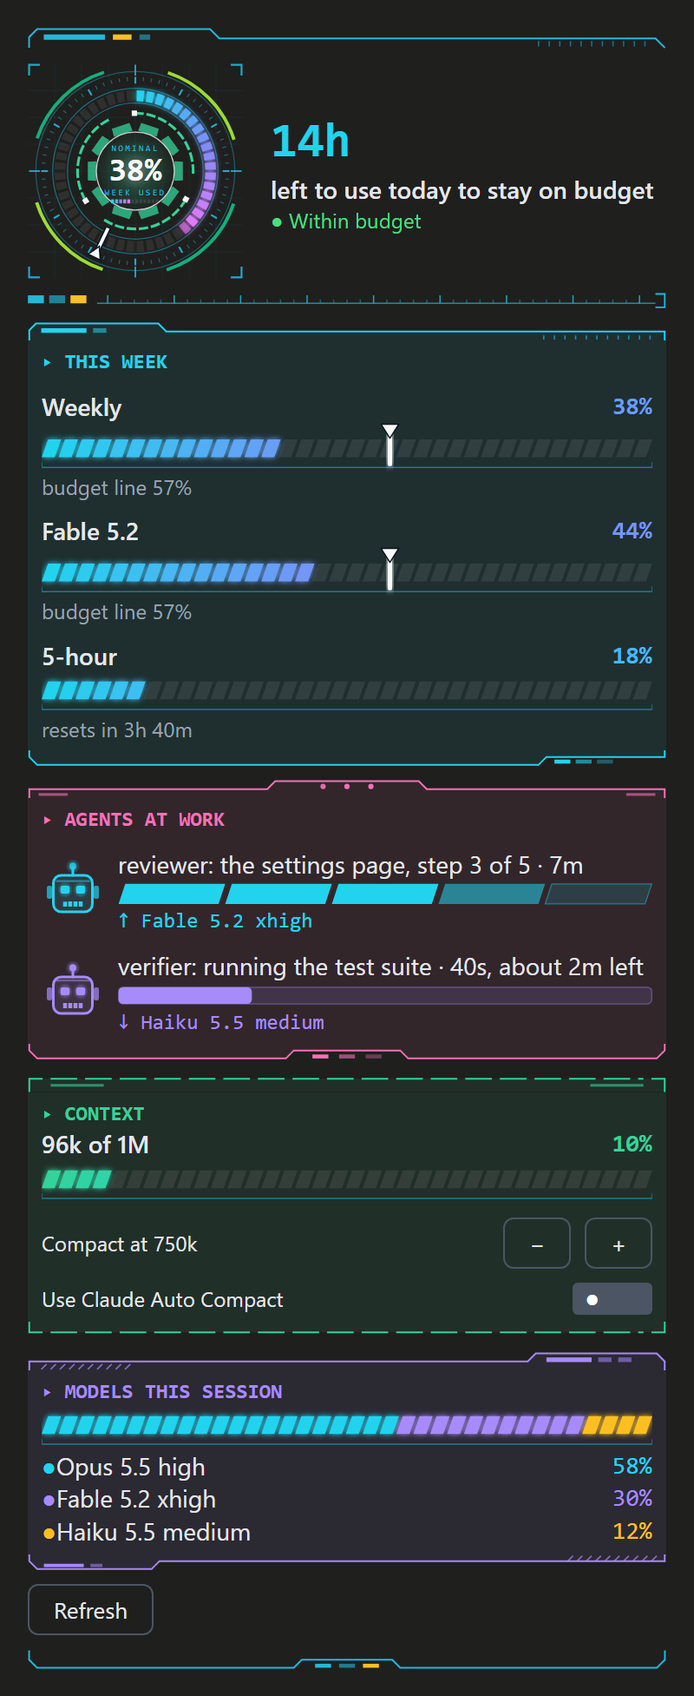
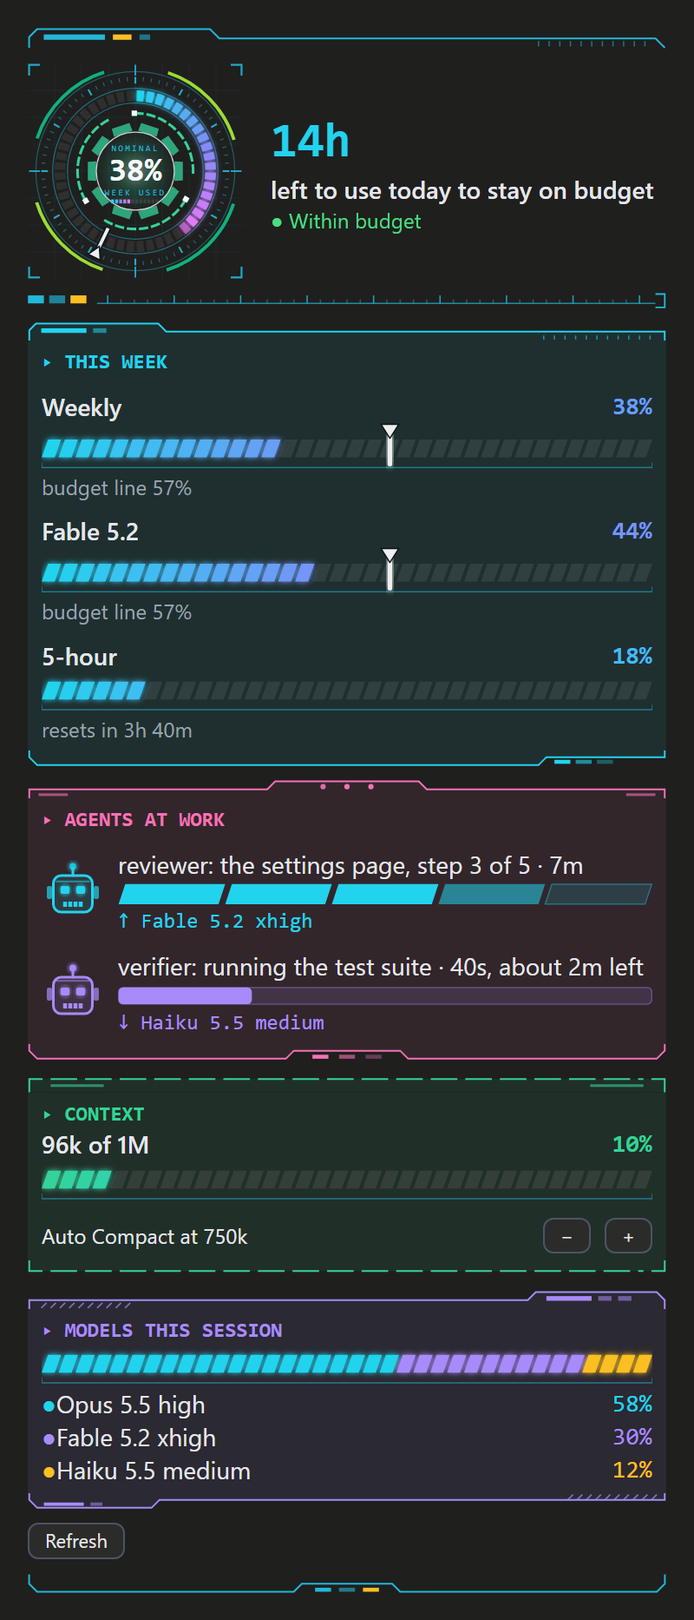
Context value follows the session; smaller buttons; Close to budget; pacing 0.9.50
- The pane's context value moves with every request, not only at a turn's end. A compaction, by Claude Code itself, a typed /compact or the pane's Compact, first shows the size it compacts at, with Compacting… on the button, then the size after; a precompute changes nothing.
- The row says Auto Compact at 400k.
- Compact, − and + and Refresh are smaller (a footnote Text in a Button with no label), with a line of room above Compact.
- Up to 5 points over the line the week says Close to budget · +N (and "close to budget" in the toasts), not over the budget line.
- `scripts/pane-images.mjs --html <file> [--before <pane.mjs>]` draws the samples side by side to one page, to see a layout change.

diff --git a/pacing/hooks/readings.test.ts b/pacing/hooks/readings.test.ts
@@ -5,7 +5,7 @@
 // node --test.
 import { expect, mock, test } from 'claude-code/testing'
 import { OUT_FILL, stepsSvg, stepsText, STEPS_MAX, STEPS_H, DIALS, FRAMES, frameSvg, barSvg, overShade, overText, OVER_CALM, OVER_RED, ORANGE, YELLOW, HUD, breakable, BREAK_AT, PREM_CALM, PREM_YELLOW, PREM_RED, premShade, premText, LEVEL_COLORS, barText, robotSvg, reactorSvg, rulerSvg, drawingId, builtCount, buildsDone, MEMO_MAX, phased, phaseOf, DIAL_SIZE, paneView, ACCENTS, CONTEXT_WARM, CONTEXT_KEEP, contextShade, contextWarmAt, contextTone, SUCCESS_HEX, DIM_HEX, BUDGET_LINE, OVER_KEEP, kept, sweepAt } from './pane.mjs'
-import { pauseNote, pauseDue, unattended, statusText, fullText, HEAD_MAX, levelPhrase, offerText, nowText, COMPACT_INSTRUCTIONS, LINE_MAX, LINE_MAX_NARROW, lineMaxOf, READ_BACK_LAG, commandFailed, spentOf, recordArgv, MSG_MAX, TASK_MAX, agentPart, roleOf, startedText, doneText, progressText, backgroundText, estimateOf, median, keepRuns, RUNS_KEPT, stepOf, switchOffer, switchedText, countText, sessionRows, workingSessions, versionOf, reloadText, RELOADED, RELOAD_CHECK_EVERY, RELOAD_AFTER_TURN, usageOf, USAGE_TOOL, roleFor, shortModel, freshOf, freshNote, usageText, measureWhy, partOf, partText, ICON, TOAST_LONG, levelIcon, sessionStartedText, sessionDoneText, compactedText, compactFailedText, sharedOf, SHARED_EVERY, liveLeft, timeText, budgetWords, costText, SWITCH_LARGE, COMPACT_DROP, compactedBetween, contextLines, PANE_ID, PANE_CLOSED, closedByPerson, paneModel, PANE_TITLE, RUN_WAIT, COMPACT_WAIT_TEXT, COMPACT_RUN_WAIT, FAIL_SAY, failedText, staleLine, FAILED_NOTE, PRUNED, AGENT_GAP, switchWaitText, leftOf, leftText, usualText, budgetText, tokensText, spentUsd, CONFIG_FRESH, textsOf, taskStarted, taskEnded, taskRows, TASK_DONE_FOR, PANE_COMPACT_AT, FIVE_HOLD, levelToastText, levelStepText, levelToastDue, HELD_SWITCH_AT, viewDeniedText, SESSIONS_TOOL, AUTO_COMPACT_DEFAULT, AUTO_COMPACT_STEP, AUTO_COMPACT_OWN_TEXT, AUTO_COMPACT_OFF_TEXT, autoCompactOf, autoCompactFailedText, AUTO_COMPACT_BUFFER, autoCompactBuffer, autoCompactWindow, autoCompactHas, stepBarOf, modelArrow, modelIdOf, outLine, commandWhat, reportLines, finishedText, OUT_LINES, OUT_CHARS, OUT_SHOWN, OUT_MAIN, OUT_MAIN_CHARS, doneLine, finishedOut, changedLine, changedFile, runKind, runLine, noteMeaning, meaningOf } from './readings.mjs'
+import { pauseNote, pauseDue, unattended, statusText, fullText, HEAD_MAX, levelPhrase, offerText, nowText, COMPACT_INSTRUCTIONS, LINE_MAX, LINE_MAX_NARROW, lineMaxOf, READ_BACK_LAG, commandFailed, spentOf, recordArgv, MSG_MAX, TASK_MAX, agentPart, roleOf, startedText, doneText, progressText, backgroundText, estimateOf, median, keepRuns, RUNS_KEPT, stepOf, switchOffer, switchedText, countText, sessionRows, workingSessions, versionOf, reloadText, RELOADED, RELOAD_CHECK_EVERY, RELOAD_AFTER_TURN, usageOf, USAGE_TOOL, roleFor, shortModel, freshOf, freshNote, usageText, measureWhy, partOf, partText, ICON, TOAST_LONG, levelIcon, sessionStartedText, sessionDoneText, compactedText, compactFailedText, sharedOf, SHARED_EVERY, liveLeft, timeText, budgetWords, costText, SWITCH_LARGE, COMPACT_DROP, compactedBetween, contextLines, PANE_ID, PANE_CLOSED, closedByPerson, paneModel, PANE_TITLE, RUN_WAIT, COMPACT_WAIT_TEXT, COMPACT_RUN_WAIT, FAIL_SAY, failedText, staleLine, FAILED_NOTE, PRUNED, AGENT_GAP, switchWaitText, leftOf, leftText, usualText, budgetText, tokensText, spentUsd, CONFIG_FRESH, textsOf, taskStarted, taskEnded, taskRows, TASK_DONE_FOR, PANE_COMPACT_AT, FIVE_HOLD, levelToastText, levelStepText, levelToastDue, HELD_SWITCH_AT, viewDeniedText, SESSIONS_TOOL, AUTO_COMPACT_DEFAULT, AUTO_COMPACT_STEP, AUTO_COMPACT_OWN_TEXT, AUTO_COMPACT_OFF_TEXT, autoCompactOf, autoCompactFailedText, AUTO_COMPACT_BUFFER, autoCompactBuffer, autoCompactWindow, autoCompactHas, stepBarOf, modelArrow, modelIdOf, outLine, commandWhat, reportLines, finishedText, OUT_LINES, OUT_CHARS, OUT_SHOWN, OUT_MAIN, OUT_MAIN_CHARS, doneLine, finishedOut, changedLine, changedFile, runKind, runLine, noteMeaning, meaningOf, contextAt } from './readings.mjs'
 
 const RESET = '2026-11-19T12:00:00.000Z'
 const PRICES = {
@@ -158,7 +158,7 @@ test('a level that gets worse to stop is one toast with the level words; a littl
   expect(toasts).toEqual([])
   next = answer('stop', 96)
   await $.session.measure(measure(96))
-  expect(toasts).toEqual(['🔴 over budget -> stop. Wrap up: the week is nearly used.'])
+  expect(toasts).toEqual(['🔴 close to budget -> stop. Wrap up: the week is nearly used.'])
   expect(status.at(-1)).toBe('Budget: -76% · usage: Weekly 96% Fable 40%')
 })
 
@@ -1319,7 +1319,7 @@ test('a pane the engine does not place: /pacing-pane says why', async ($, on) =>
   expect((await $.command.run({ command: 'pacing-pane', args: '' } as any)).text).toBe('Pacing pane: not shown (no surface attached).')
   // the pane before any reading or turn
   const ui = await $.ui.mount(PANE)
-  expect((await ui.findAll({ type: 'Text' })).map((t: any) => t.text)).toEqual(['No reading yet in this session: /pacing usage takes one.', '▸ CONTEXT', 'Not measured yet; it shows after the next turn.', 'Compact at 750k', '−', '+'])
+  expect((await ui.findAll({ type: 'Text' })).map((t: any) => t.text)).toEqual(['No reading yet in this session: /pacing usage takes one.', '▸ CONTEXT', 'Not measured yet; it shows after the next turn.', 'Auto Compact at 750k', '−', '+', 'Refresh'])
   await ui.unmount()
 })
 
@@ -1513,7 +1513,7 @@ test('an older engine without the band, the timers or compaction: the notice as 
 })
 
 test('each level in words that say which side of the budget line the week is', async () => {
-  expect(['ahead', 'on pace', 'over', 'throttle', 'stop'].map(levelPhrase)).toEqual(['under budget', 'on budget', 'over budget', 'far over budget', 'stop'])
+  expect(['ahead', 'on pace', 'over', 'throttle', 'stop'].map(levelPhrase)).toEqual(['under budget', 'on budget', 'close to budget', 'far over budget', 'stop'])
   // a level the module does not know yet is shown as it comes
   expect(levelPhrase('hold')).toBe('hold')
 })
@@ -3719,7 +3719,7 @@ test('in a session: each toast with its icon, the routine ones for the engine\'s
   expect(shown.length).toBe(before)
   next = answer('throttle', 26, { do: 'most work leaves the session\'s model' })
   await $.session.measure(measure(26))
-  expect(shown.at(-1)).toEqual({ text: '⚠ over budget -> far over budget. Most work goes to Opus 5.5 medium subagents.', ms: 15000 })
+  expect(shown.at(-1)).toEqual({ text: '⚠ close to budget -> far over budget. Most work goes to Opus 5.5 medium subagents.', ms: 15000 })
   next = answer('stop', 96, { do: 'wrap up, the week is nearly used' })
   await $.session.measure(measure(96))
   expect(shown.at(-1)).toEqual({ text: '🔴 far over budget -> stop. Wrap up: the week is nearly used.', ms: 15000 })
@@ -3810,19 +3810,19 @@ test('the pane says the budget as time left today, never in tokens or dollars; p
   // show there (weekLevel; without it, the week's figure against its line)
   expect(paneModel({ j: { ...base, all: 55, line: 73.3, level: 'over', weekLevel: 'ahead', levelBy: 'premium', premium: 80, premiumLabel: 'Fable 5.2' } }).levelText).toBe('Within budget')
   expect(paneModel({ j: { ...base, all: 55, line: 73.3, level: 'over', levelBy: 'premium', premium: 80, premiumLabel: 'Fable 5.2' } }).level).toBe('ok')
-  expect(paneModel({ j: { ...base, all: 76, line: 73.3, level: 'over', weekLevel: 'over' } }).levelText).toBe('Over the budget line · +3')
+  expect(paneModel({ j: { ...base, all: 76, line: 73.3, level: 'over', weekLevel: 'over' } }).levelText).toBe('Close to budget · +3')
   // the words follow the week's own points over its line, not a level a
   // trend or Fable raised (live: 23 against 20 at throttle read "far over")
   const raised = paneModel({ j: { ...base, all: 23, line: 20, level: 'throttle', weekLevel: 'throttle' } })
-  expect([raised.level, raised.levelText]).toEqual(['throttle', 'Over the budget line · +3'])
+  expect([raised.level, raised.levelText]).toEqual(['throttle', 'Close to budget · +3'])
   expect(paneModel({ j: { ...base, all: 28, line: 20, level: 'throttle', weekLevel: 'throttle' } }).levelText).toBe('Far over the budget line · +8')
-  expect(paneModel({ j: { ...base, all: 25.4, line: 20, level: 'throttle', weekLevel: 'throttle' } }).levelText).toBe('Over the budget line · +5')
-  expect(paneModel({ j: { ...base, all: 20.2, line: 20, level: 'over', weekLevel: 'over' } }).levelText).toBe('Over the budget line · +1')
+  expect(paneModel({ j: { ...base, all: 25.4, line: 20, level: 'throttle', weekLevel: 'throttle' } }).levelText).toBe('Close to budget · +5')
+  expect(paneModel({ j: { ...base, all: 20.2, line: 20, level: 'over', weekLevel: 'over' } }).levelText).toBe('Close to budget · +1')
   expect(paneModel({ j: { ...base, all: 20, line: 20, level: 'over', weekLevel: 'over' } }).levelText).toBe('Within budget')
   expect(paneModel({ j: { ...base, all: 18, line: 20, level: 'throttle', weekLevel: 'throttle' } }).levelText).toBe('Within budget')
   expect(paneModel({ j: { ...base, all: 96, line: 80, level: 'stop', weekLevel: 'stop' } }).levelText).toBe('The week is nearly used')
   // drawn beside the dial, on the way from green to yellow (yellow at 5 over)
-  const dot = nodes(paneView(TABLE, raised, { surface: 'desktop' })).find(n => n.type === 'Text' && n.props.children === '● Over the budget line · +3')
+  const dot = nodes(paneView(TABLE, raised, { surface: 'desktop' })).find(n => n.type === 'Text' && n.props.children === '● Close to budget · +3')
   expect(['success', YELLOW]).not.toContain(dot.props.color)
   // the model held by its own meter: the week's words stay; its meter has its
   // line, drawn loud, and says by how much it is over
@@ -4493,7 +4493,8 @@ const taskTexts = async ($: any, surface = 'desktop') => {
   const texts = (await ui.findAll({ type: 'Text' })).map((t: any) => t.text)
   await ui.unmount()
   const at = texts.indexOf('▸ BACKGROUND TASKS')
-  return at < 0 ? null : texts.slice(at + 1)
+  // (the Refresh button's text, the pane's last row, is not a task)
+  return at < 0 ? null : texts.slice(at + 1).filter((t: any) => t !== 'Refresh')
 }
 
 test('background tasks at the foot of the pane: the kind, what it is and how long it has run; a finished one its minute with how it ended, then gone; no toasts', async ($, on) => {
@@ -4869,7 +4870,7 @@ test('the pane\'s texts by points over: the week 3 over and Fable 4 over on the 
   expect(colorOf(on, 'Within budget')).toBe('success')
   // a little over: the week's words 3/5 of the way from green to yellow; Fable's 4/20 from dim, not bold
   const little = { ...base, all: 63, level: 'over', weekLevel: 'over', premium: 64 }
-  expect(colorOf(little, 'Over the budget line')).toBe(overText(3, SUCCESS_HEX))
+  expect(colorOf(little, 'Close to budget')).toBe(overText(3, SUCCESS_HEX))
   const note = find(little, 'points over its budget line')
   expect([note.props.color, note.props.weight, String(note.props.children).startsWith('▲')]).toEqual([premText(4, DIM_HEX), undefined, false])
   // over by 10: the week's words orange toward red; Fable's on its own scale, half way to yellow
@@ -4989,7 +4990,7 @@ test('a change of level is a short toast: the change and one step, never the who
   const j = { level: 'throttle', levelBy: 'premium', premiumLabel: 'Fable 5.2', premiumHeld: true, recommend: { label: 'Opus 5.5', effort: 'high' },
     do: 'Fable 5.2\'s meter is at throttle: this session belongs on Opus 5.5 high now, and Fable 5.2 is kept for judgment work; the Switch row offers it. no manual change now: the session dispatches everything to Opus 5.5 medium subagents and does itself only what they would get wrong.' }
   const text = levelToastText(was, j)
-  expect(text.endsWith('over budget -> far over budget (Fable\'s meter). Fable 5.2 is kept for hard tasks; the Switch row offers Opus 5.5 high.')).toBe(true)
+  expect(text.endsWith('close to budget -> far over budget (Fable\'s meter). Fable 5.2 is kept for hard tasks; the Switch row offers Opus 5.5 high.')).toBe(true)
   expect(text.length).toBeLessThan(130)
   expect(levelStepText({ level: 'throttle', tierNames: { 2: 'Opus 5.5 medium' } })).toBe('Most work goes to Opus 5.5 medium subagents.')
   expect(levelStepText({ level: 'stop', do: 'the week is nearly used; from 100 % the work is charged to extra usage, so go on only with the user\'s word' })).toBe('The week is nearly used; past 100% it is charged to extra usage.')
@@ -5172,11 +5173,11 @@ test('the pane\'s auto-compact row: its words with small − and + by 50k; none 
   expect(AUTO_COMPACT_OWN_TEXT).toBe('Auto-compact: Claude Code\'s own (/pacing autocompact 750k sets pacing\'s window again)')
   expect(paneModel({ autoCompact: 'off' }).autoCompact).toEqual({ text: AUTO_COMPACT_OFF_TEXT, off: true })
   expect(paneModel({ autoCompact: 'auto' }).autoCompact).toEqual({ text: AUTO_COMPACT_OWN_TEXT, own: true })
-  expect(paneModel({ autoCompact: 750000 }).autoCompact).toEqual({ text: 'Compact at 750k', own: false, less: 700000, more: 800000 })
-  expect(paneModel({ autoCompact: 100000 }).autoCompact).toEqual({ text: 'Compact at 100k', own: false, less: null, more: 150000 })
-  expect(paneModel({ autoCompact: 1000000 }).autoCompact).toEqual({ text: 'Compact at 1M', own: false, less: 950000, more: null })
+  expect(paneModel({ autoCompact: 750000 }).autoCompact).toEqual({ text: 'Auto Compact at 750k', own: false, less: 700000, more: 800000 })
+  expect(paneModel({ autoCompact: 100000 }).autoCompact).toEqual({ text: 'Auto Compact at 100k', own: false, less: null, more: 150000 })
+  expect(paneModel({ autoCompact: 1000000 }).autoCompact).toEqual({ text: 'Auto Compact at 1M', own: false, less: 950000, more: null })
   // off the 50k grid: the next step on it
-  expect(paneModel({ autoCompact: 120000 }).autoCompact).toEqual({ text: 'Compact at 120k', own: false, less: 100000, more: 150000 })
+  expect(paneModel({ autoCompact: 120000 }).autoCompact).toEqual({ text: 'Auto Compact at 120k', own: false, less: 100000, more: 150000 })
   const bd = { totalTokens: 100000, maxTokens: 1000000, percentage: 10, categories: [] }
   const view = (m: any, surface: string, extra: any = {}) => nodes(paneView(TABLE, m, { surface, ...extra }))
   const keys = (m: any, surface: string) => view(m, surface).filter(n => n.type === 'Button').map(n => n.props.key + ': ' + (n.props.label ?? [n.props.children].flat().map((c: any) => (c && c.props ? c.props.children : c)).join('')))
@@ -5194,13 +5195,23 @@ test('the pane\'s auto-compact row: its words with small − and + by 50k; none 
       expect(view(paneModel({ bd, autoCompact: ac }), surface).filter(n => n.type === 'Text' && String(n.props.children).includes('Auto-compact')).map(n => [n.props.children, n.props.dimColor, n.props.size])).toEqual([[text, true, 'caption']])
     }
   }
-  // small on the desktop: no label (a desktop draws a label in place of its children), a caption Text in it; the terminal keeps its label
+  // small on the desktop: no label (a desktop draws a label in place of its children), a footnote Text in it (the smallest); the terminal keeps its label
   const sign = (surface: string) => view(paneModel({ bd, autoCompact: 750000 }), surface).find(n => n.props && n.props.key === 'pacing-pane-autocompact-less')
   const d = sign('desktop')
-  expect([d.props.label, d.props.variant, d.props.children[0].props.size, d.props.children[0].props.children]).toEqual([undefined, 'secondary', 'caption', '−'])
+  expect([d.props.label, d.props.variant, d.props.children[0].props.size, d.props.children[0].props.children]).toEqual([undefined, 'secondary', 'footnote', '−'])
   expect(sign('terminal').props.label).toBe('−')
+  // Compact and Refresh the same small size (0.9.50), Compact with a line of room above it
+  const big = { totalTokens: 400000, maxTokens: 1000000, rawMaxTokens: 1000000, percentage: 40, categories: [], modelWindow: 1000000 }
+  const desk = view(paneModel({ bd: big, tokens: 400000, autoCompact: 750000 }), 'desktop', { onRefresh: () => {} })
+  for (const key of ['pacing-pane-compact', 'pacing-pane-refresh']) {
+    const b = desk.find(n => n.props && n.props.key === key)
+    expect([key, b.props.label, b.props.children[0].props.size]).toEqual([key, undefined, 'footnote'])
+  }
+  expect(desk.find(n => n.type === 'Box' && [n.props.children].flat().some((c: any) => c && c.props && c.props.key === 'pacing-pane-compact')).props.marginTop).toBe(1)
+  const term = view(paneModel({ bd: big, tokens: 400000, autoCompact: 750000 }), 'terminal', { onRefresh: () => {} })
+  expect(term.find(n => n.props && n.props.key === 'pacing-pane-refresh').props.label).toBe('Refresh')
   // one row: the words left, − and + at its right end
-  const rowOf = view(paneModel({ bd, autoCompact: 750000 }), 'desktop').find(n => n.type === 'Box' && n.props.justifyContent === 'space-between' && [n.props.children].flat().some((c: any) => c && c.props && c.props.children === 'Compact at 750k'))
+  const rowOf = view(paneModel({ bd, autoCompact: 750000 }), 'desktop').find(n => n.type === 'Box' && n.props.justifyContent === 'space-between' && [n.props.children].flat().some((c: any) => c && c.props && c.props.children === 'Auto Compact at 750k'))
   expect(nodes(rowOf).filter((n: any) => n.type === 'Button').length).toBe(2)
   // a press gives the step's value
   const pressOf = (key: string, surface = 'desktop') => { const got: any[] = []; view(paneModel({ bd, autoCompact: 750000 }), surface, { onAutoCompact: (v: any) => got.push(v) }).find(n => n.props && n.props.key === key).props.onPress(); return got }
@@ -5224,7 +5235,7 @@ test('a press on − or + in the pane: config.mjs stores it, then /autocompact r
   expect(seen.runs).toEqual([])
   const texts = async (ui: any) => (await ui.findAll({ type: 'Text' })).map((t: any) => t.text)
   let ui = await $.ui.mount(PANE)
-  expect(await texts(ui)).toContain('Compact at 750k')
+  expect(await texts(ui)).toContain('Auto Compact at 750k')
   await ui.press({ key: 'pacing-pane-autocompact-less' })
   await clock.settle()
   await ui.unmount()
@@ -5233,7 +5244,7 @@ test('a press on − or + in the pane: config.mjs stores it, then /autocompact r
   expect(stored[0][1].endsWith('/skills/pacing/scripts/config.mjs')).toBe(true)
   expect(seen.runs).toEqual(['/autocompact 733000'])
   ui = await $.ui.mount(PANE)
-  expect(await texts(ui)).toContain('Compact at 700k')
+  expect(await texts(ui)).toContain('Auto Compact at 700k')
   await ui.press({ key: 'pacing-pane-autocompact-more' })
   await clock.settle()
   await ui.unmount()
@@ -5584,4 +5595,107 @@ test('an agent\'s box in the pane from what the engine hands the module: the fil
   texts = await paneTexts()
   expect(texts.some((s: string) => s.startsWith('reader: read the logs'))).toBe(false)
   expect(texts).not.toContain('Done: Logs read')
+})
+
+// ---- the context bar between turns (0.9.50) ----
+
+test('contextAt: a breakdown moved to a measure\'s size, its categories kept; with none yet, one of the total alone', () => {
+  const bd = { ...BREAKDOWN, rawMaxTokens: 433000, maxTokens: 433000, modelWindow: 1000000 }
+  const at = contextAt(bd, 400000, 1000000)
+  expect([at.totalTokens, at.percentage, at.rawMaxTokens, at.categories]).toEqual([400000, 92, 433000, bd.categories])
+  expect(paneModel({ bd: at }).context).toEqual({ used: '400k', of: '1M', tokens: 400000, max: 1000000, pct: 40 })
+  expect(paneModel({ bd: contextAt(null, 23000, 1000000) }).context).toEqual({ used: '23k', of: '1M', tokens: 23000, max: 1000000, pct: 2 })
+  // no size: what was there
+  expect(contextAt(bd, undefined as any)).toBe(bd)
+  expect(contextAt(null, null as any)).toBe(null)
+})
+
+test('the pane\'s context bar follows each request, not only a turn\'s end; an auto-compact shows the size it compacts at with Compacting…, then the size after; a precompute changes nothing', async ($, on) => {
+  engine(on)
+  big(on)
+  const clock = mock.clock(on, { now: T0 })
+  let live = 378000
+  const bdOf = (n: number) => ({ ...BREAKDOWN, totalTokens: n, rawMaxTokens: 433000, maxTokens: 433000, autocompactSource: 'settings', percentage: Math.round(n / 4330) })
+  on('session.usage', (_: unknown, e: any) => ({ value: { startedAt: 0, context: { tokens: live, window: 1000000, percent: Math.round(live / 10000), ...(e && e.breakdown ? { breakdown: bdOf(live) } : {}) }, rateLimits: [] } }))
+  on('ui.invalidate', () => ({ value: undefined }))
+  on('env.get', (_: unknown, e: any) => ({ value: e.name === 'USERPROFILE' ? '/home/test' : undefined }))
+  on('fs.read', () => ({ value: '{}' }))
+  let release = () => {}
+  const held = new Promise<void>(r => { release = r })
+  const triggers: string[] = []
+  on('session.compact', async (_: unknown, e: any) => {
+    triggers.push(e.trigger)
+    if (e.trigger === 'precompute') return { messages: [{ role: 'assistant', text: 'kept for later', toolUses: [] }] }
+    await held
+    live = 23000
+    return { messages: [{ role: 'assistant', text: 'the summary', toolUses: [] }], tokensBefore: 400000, tokensAfter: 23000 }
+  })
+  const shown = async () => {
+    const ui = await $.ui.mount(PANE)
+    const used = (await ui.findAll({ type: 'Text' })).map((x: any) => String(x.text)).find((x: string) => / of 1M$/.test(x))
+    const b = await compactButton(ui)
+    await ui.unmount()
+    return [used, b ? (b.label ?? b.props?.label) : null]
+  }
+  await $.session.measure(measure(10, [], 378000))
+  await clock.settle()
+  expect(await shown()).toEqual(['378k of 1M', 'Compact'])
+  // a request later in the same turn: the bar moves with it
+  live = 395000
+  await $.session.measure(measure(10, [], 395000))
+  expect(await shown()).toEqual(['395k of 1M', 'Compact'])
+  // a precompute installs nothing
+  await $.session.compact({ trigger: 'precompute', messages: [{ role: 'user', text: 'work', toolUses: [] }] } as any)
+  expect(await shown()).toEqual(['395k of 1M', 'Compact'])
+  // Claude Code compacts at 400k: that size first, Compacting… while it runs
+  live = 400000
+  const run = $.session.compact({ trigger: 'auto', messages: [{ role: 'user', text: 'work', toolUses: [] }] } as any)
+  await clock.advance(1)
+  expect(await shown()).toEqual(['400k of 1M', 'Compacting…'])
+  release()
+  await run
+  await clock.settle()
+  // then the size after it, no Compact offer
+  expect(await shown()).toEqual(['23k of 1M', null])
+  expect(triggers).toEqual(['precompute', 'auto'])
+})
+
+test('a press on the pane\'s Compact: the size it compacts at with Compacting…, then the size after, never a blank bar', async ($, on) => {
+  engine(on)
+  big(on)
+  const clock = mock.clock(on, { now: T0 })
+  let live = 380000
+  on('session.usage', (_: unknown, e: any) => ({ value: { startedAt: 0, context: { tokens: live, window: 1000000, percent: Math.round(live / 10000), ...(e && e.breakdown ? { breakdown: { ...BREAKDOWN, totalTokens: live, percentage: Math.round(live / 10000) } } : {}) }, rateLimits: [] } }))
+  on('ui.invalidate', () => ({ value: undefined }))
+  on('ui.toast', () => ({ value: undefined }))
+  on('env.get', (_: unknown, e: any) => ({ value: e.name === 'USERPROFILE' ? '/home/test' : undefined }))
+  on('fs.read', () => ({ value: '{}' }))
+  let release = () => {}
+  const held = new Promise<void>(r => { release = r })
+  on('session.compact', async () => {
+    await held
+    live = 41000
+    return { messages: [{ role: 'assistant', text: 'the summary', toolUses: [] }], tokensBefore: 386000, tokensAfter: 41000 }
+  })
+  const shown = async () => {
+    const ui = await $.ui.mount(PANE)
+    const used = (await ui.findAll({ type: 'Text' })).map((x: any) => String(x.text)).find((x: string) => / of 1M$/.test(x))
+    const b = await compactButton(ui)
+    await ui.unmount()
+    return [used, b ? (b.label ?? b.props?.label) : null]
+  }
+  await $.session.measure(measure(10, [], 380000))
+  await clock.settle()
+  expect(await shown()).toEqual(['380k of 1M', 'Compact'])
+  // grown a little since the last measure: the press shows where it compacts
+  live = 386000
+  const ui = await $.ui.mount(PANE)
+  await ui.press({ key: 'pacing-pane-compact' })
+  await ui.unmount()
+  await clock.advance(1)
+  expect(await shown()).toEqual(['386k of 1M', 'Compacting…'])
+  release()
+  await clock.advance(1)
+  await clock.settle()
+  expect(await shown()).toEqual(['41k of 1M', null])
 })

diff --git a/docs/auto-readings.md b/docs/auto-readings.md
@@ -1761,3 +1761,38 @@ yellow from the line itself. Now:
   gauge and level dials' marks, and Fable's loud line, its OVER tag and
   arrow (they took the shade of how far over before). Only the band behind
   the cells over Fable's line keeps that shade.
+
+## The row says Auto Compact at (0.9.50)
+
+The user's word: say "Auto Compact at x". The pane's auto-compact row reads
+"Auto Compact at 750k" (`autoCompactText`), not "Compact at 750k", so it
+says whose compaction the figure sets now that the switch for Claude
+Code's own is gone. The − and + and the dim lines for 'auto' and 'off'
+are as they were.
+
+Smaller buttons, room above Compact; "Close to budget" (also 0.9.50):
+
+- **Smaller still.** The user's word: Compact, − and + smaller, Refresh the
+  same, and room above Compact. 0.9.49's caption text in the − and + was
+  not small enough; `small()` puts a footnote-size Text (the smallest
+  there is) in a Button with no label, for Compact, Refresh, − and +, and
+  the Compact row has a line above it (`marginTop: 1`). A desktop draws
+  its native button round the text, so its padding is the app's.
+- **Close to budget.** The user's word: instead of saying over budget at
+  once, say close to budget for the first 5 points over. The pane's words
+  read "Close to budget · +3" up to 5 points over the line (were "Over the
+  budget line · +3"), "Far over the budget line · +6" past that; the
+  level 'over' (budget.mjs: over the line by up to 5) is "close to budget"
+  in the level toast's words too (`PHRASE`).
+
+The pane's context value follows the session (also 0.9.50). It showed 378k
+while Claude Code compacted at 400k (its record: 399 833 tokens), and kept the
+old size after a compaction that ran mid-turn: the bar was drawn from a full
+breakdown, taken only at a turn's end or on Refresh. Now every request's
+measure moves it (`contextAt`: the last breakdown at the measured total). A
+compaction, by Claude Code itself, a typed /compact or the pane's Compact,
+first shows the size it compacts at, with Compacting… on the button, and
+then the size after; a `precompute` (a summary made ahead, nothing
+installed) changes nothing. /pacing-status still waits for a real breakdown.
+`node scripts/pane-images.mjs --html <file> [--before <pane.mjs>]` draws the
+samples side by side to one page, to see a layout change.
